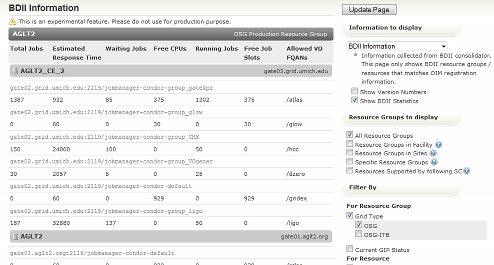
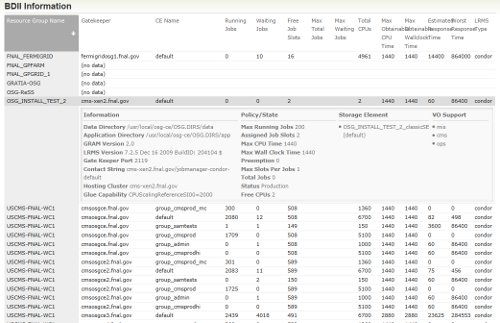
Updated BDII information screenshot and promoted to home page's sample page area

diff --git a/app/controls/RgbdiiController.php b/app/controls/RgbdiiController.php
@@ -18,7 +18,7 @@ License.
 
 class RgbdiiController extends RgController
 {
-    public static function default_title() { return "BDII Information"; }
+    public static function default_title() { return "BDII Information Browser"; }
     public static function default_url($query) { return ""; }
 
     public function processQuery() {
